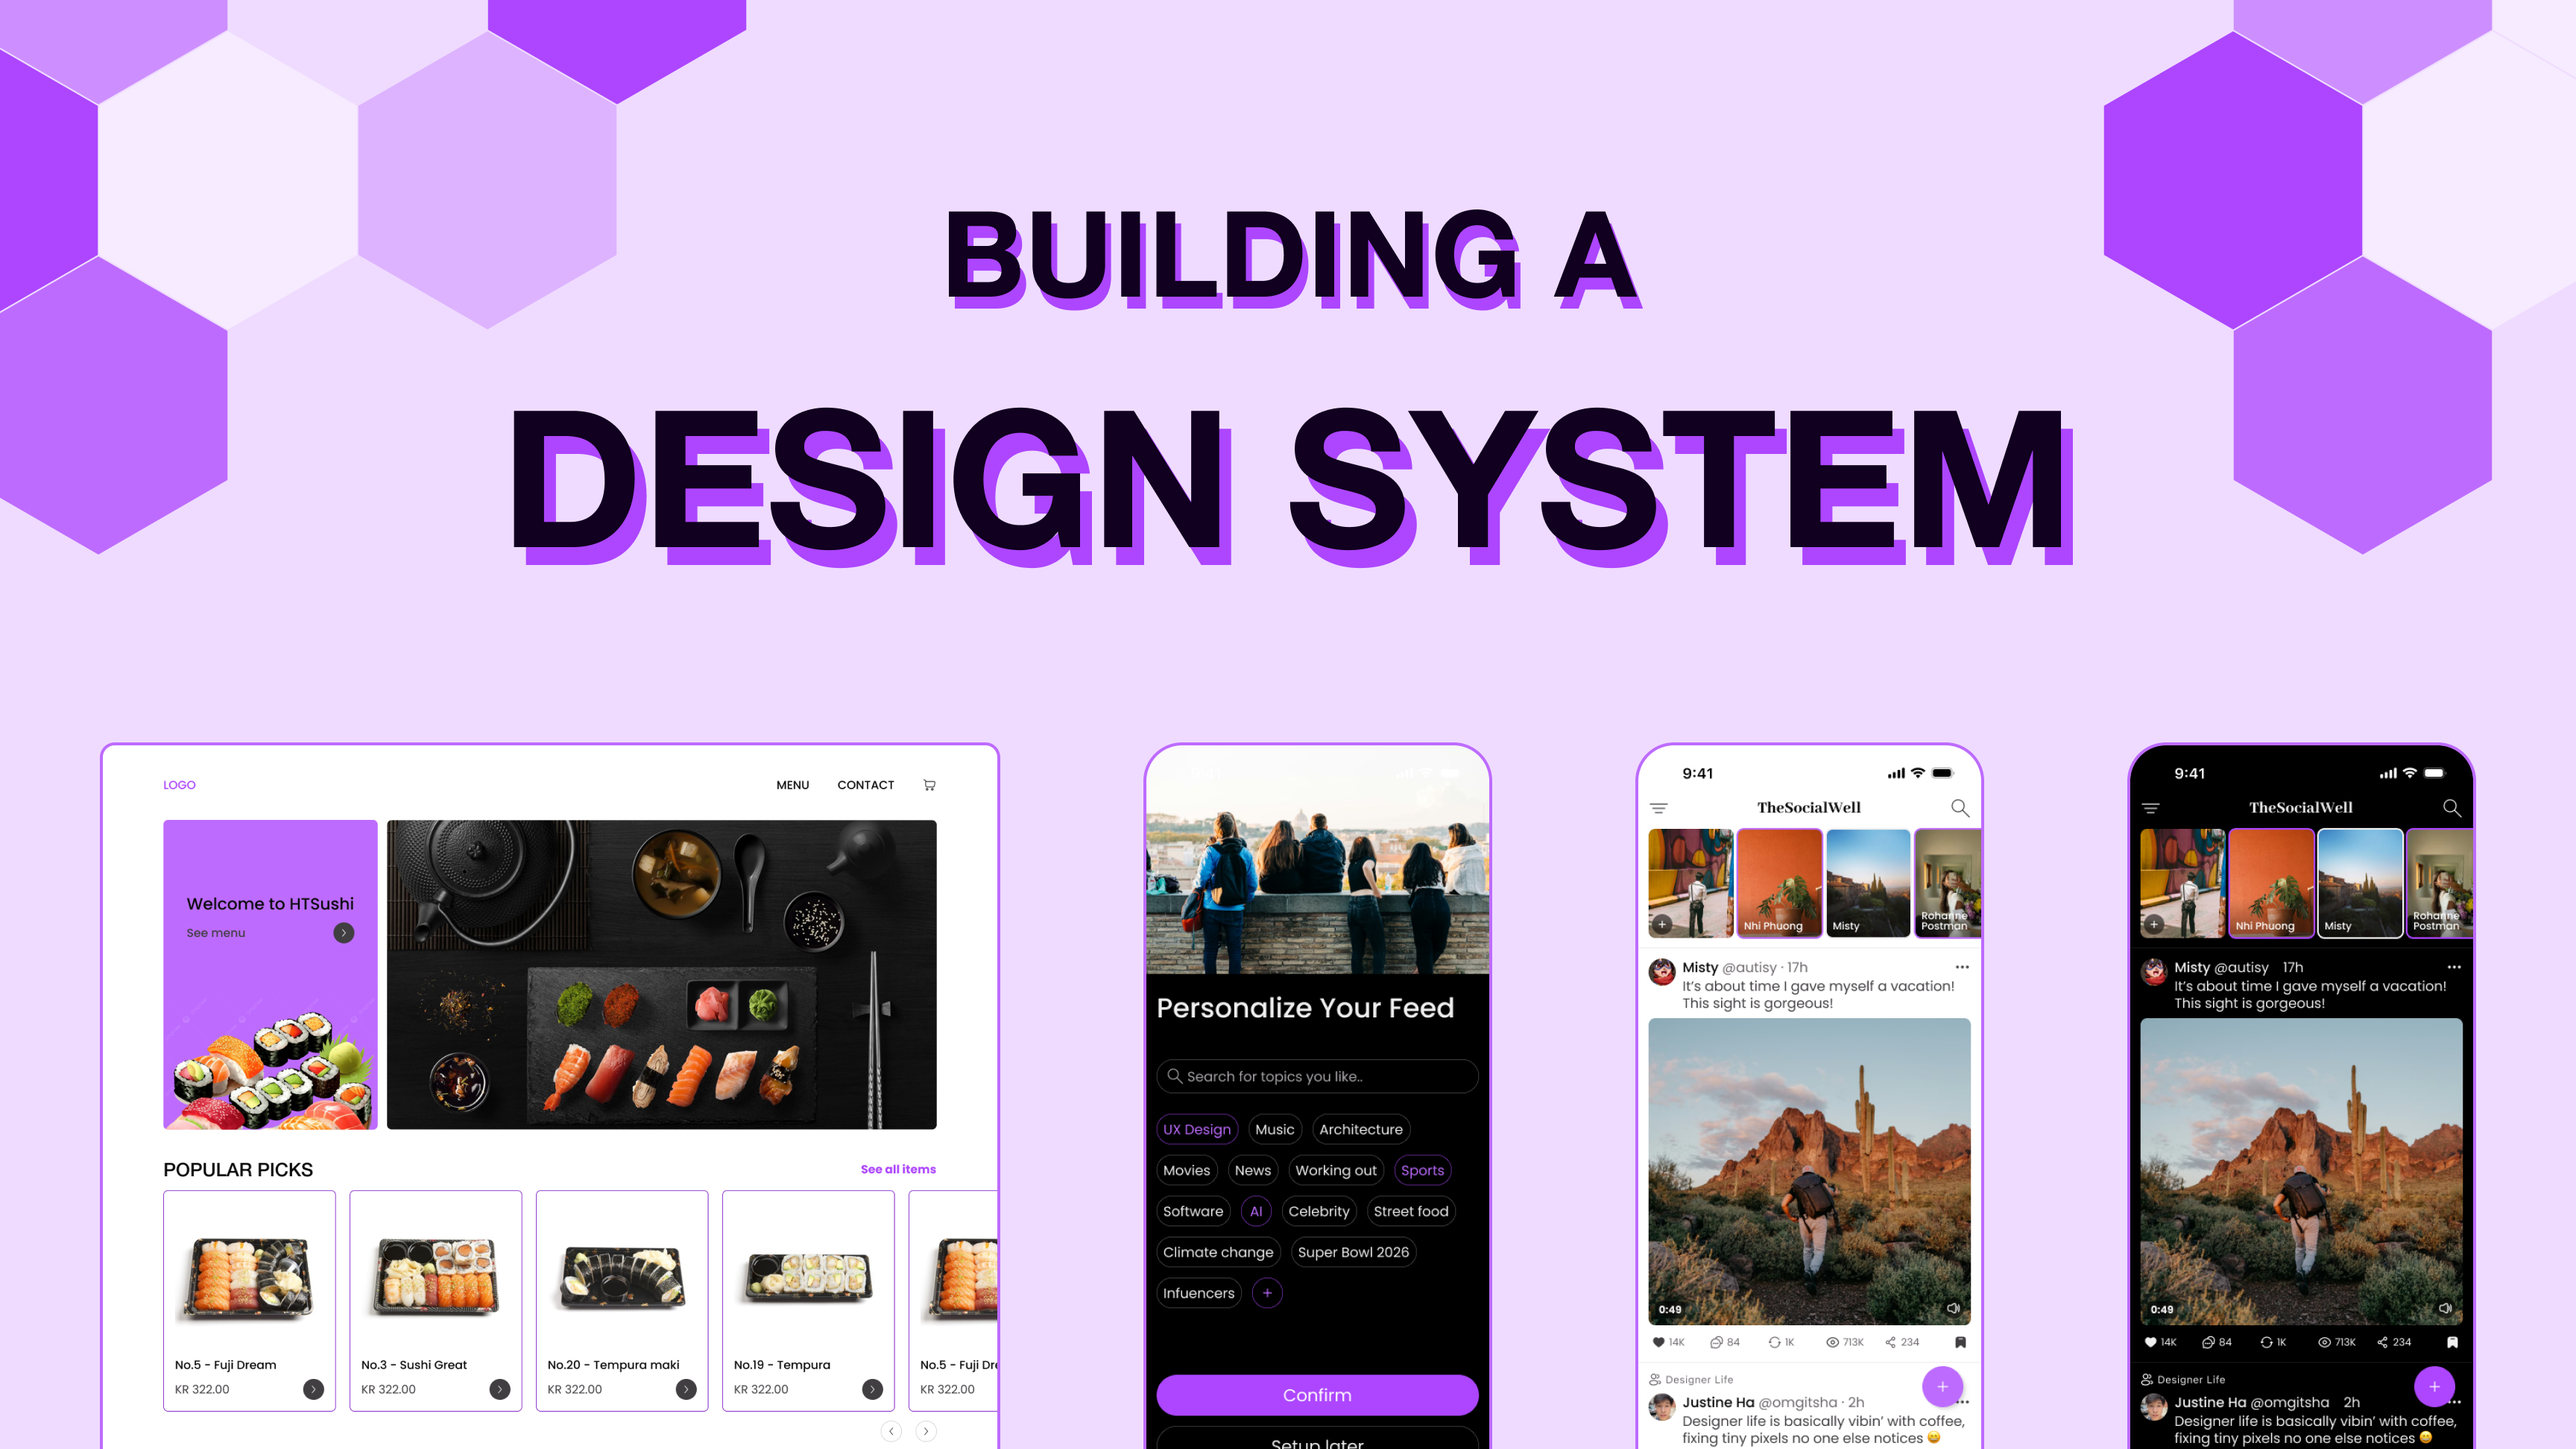
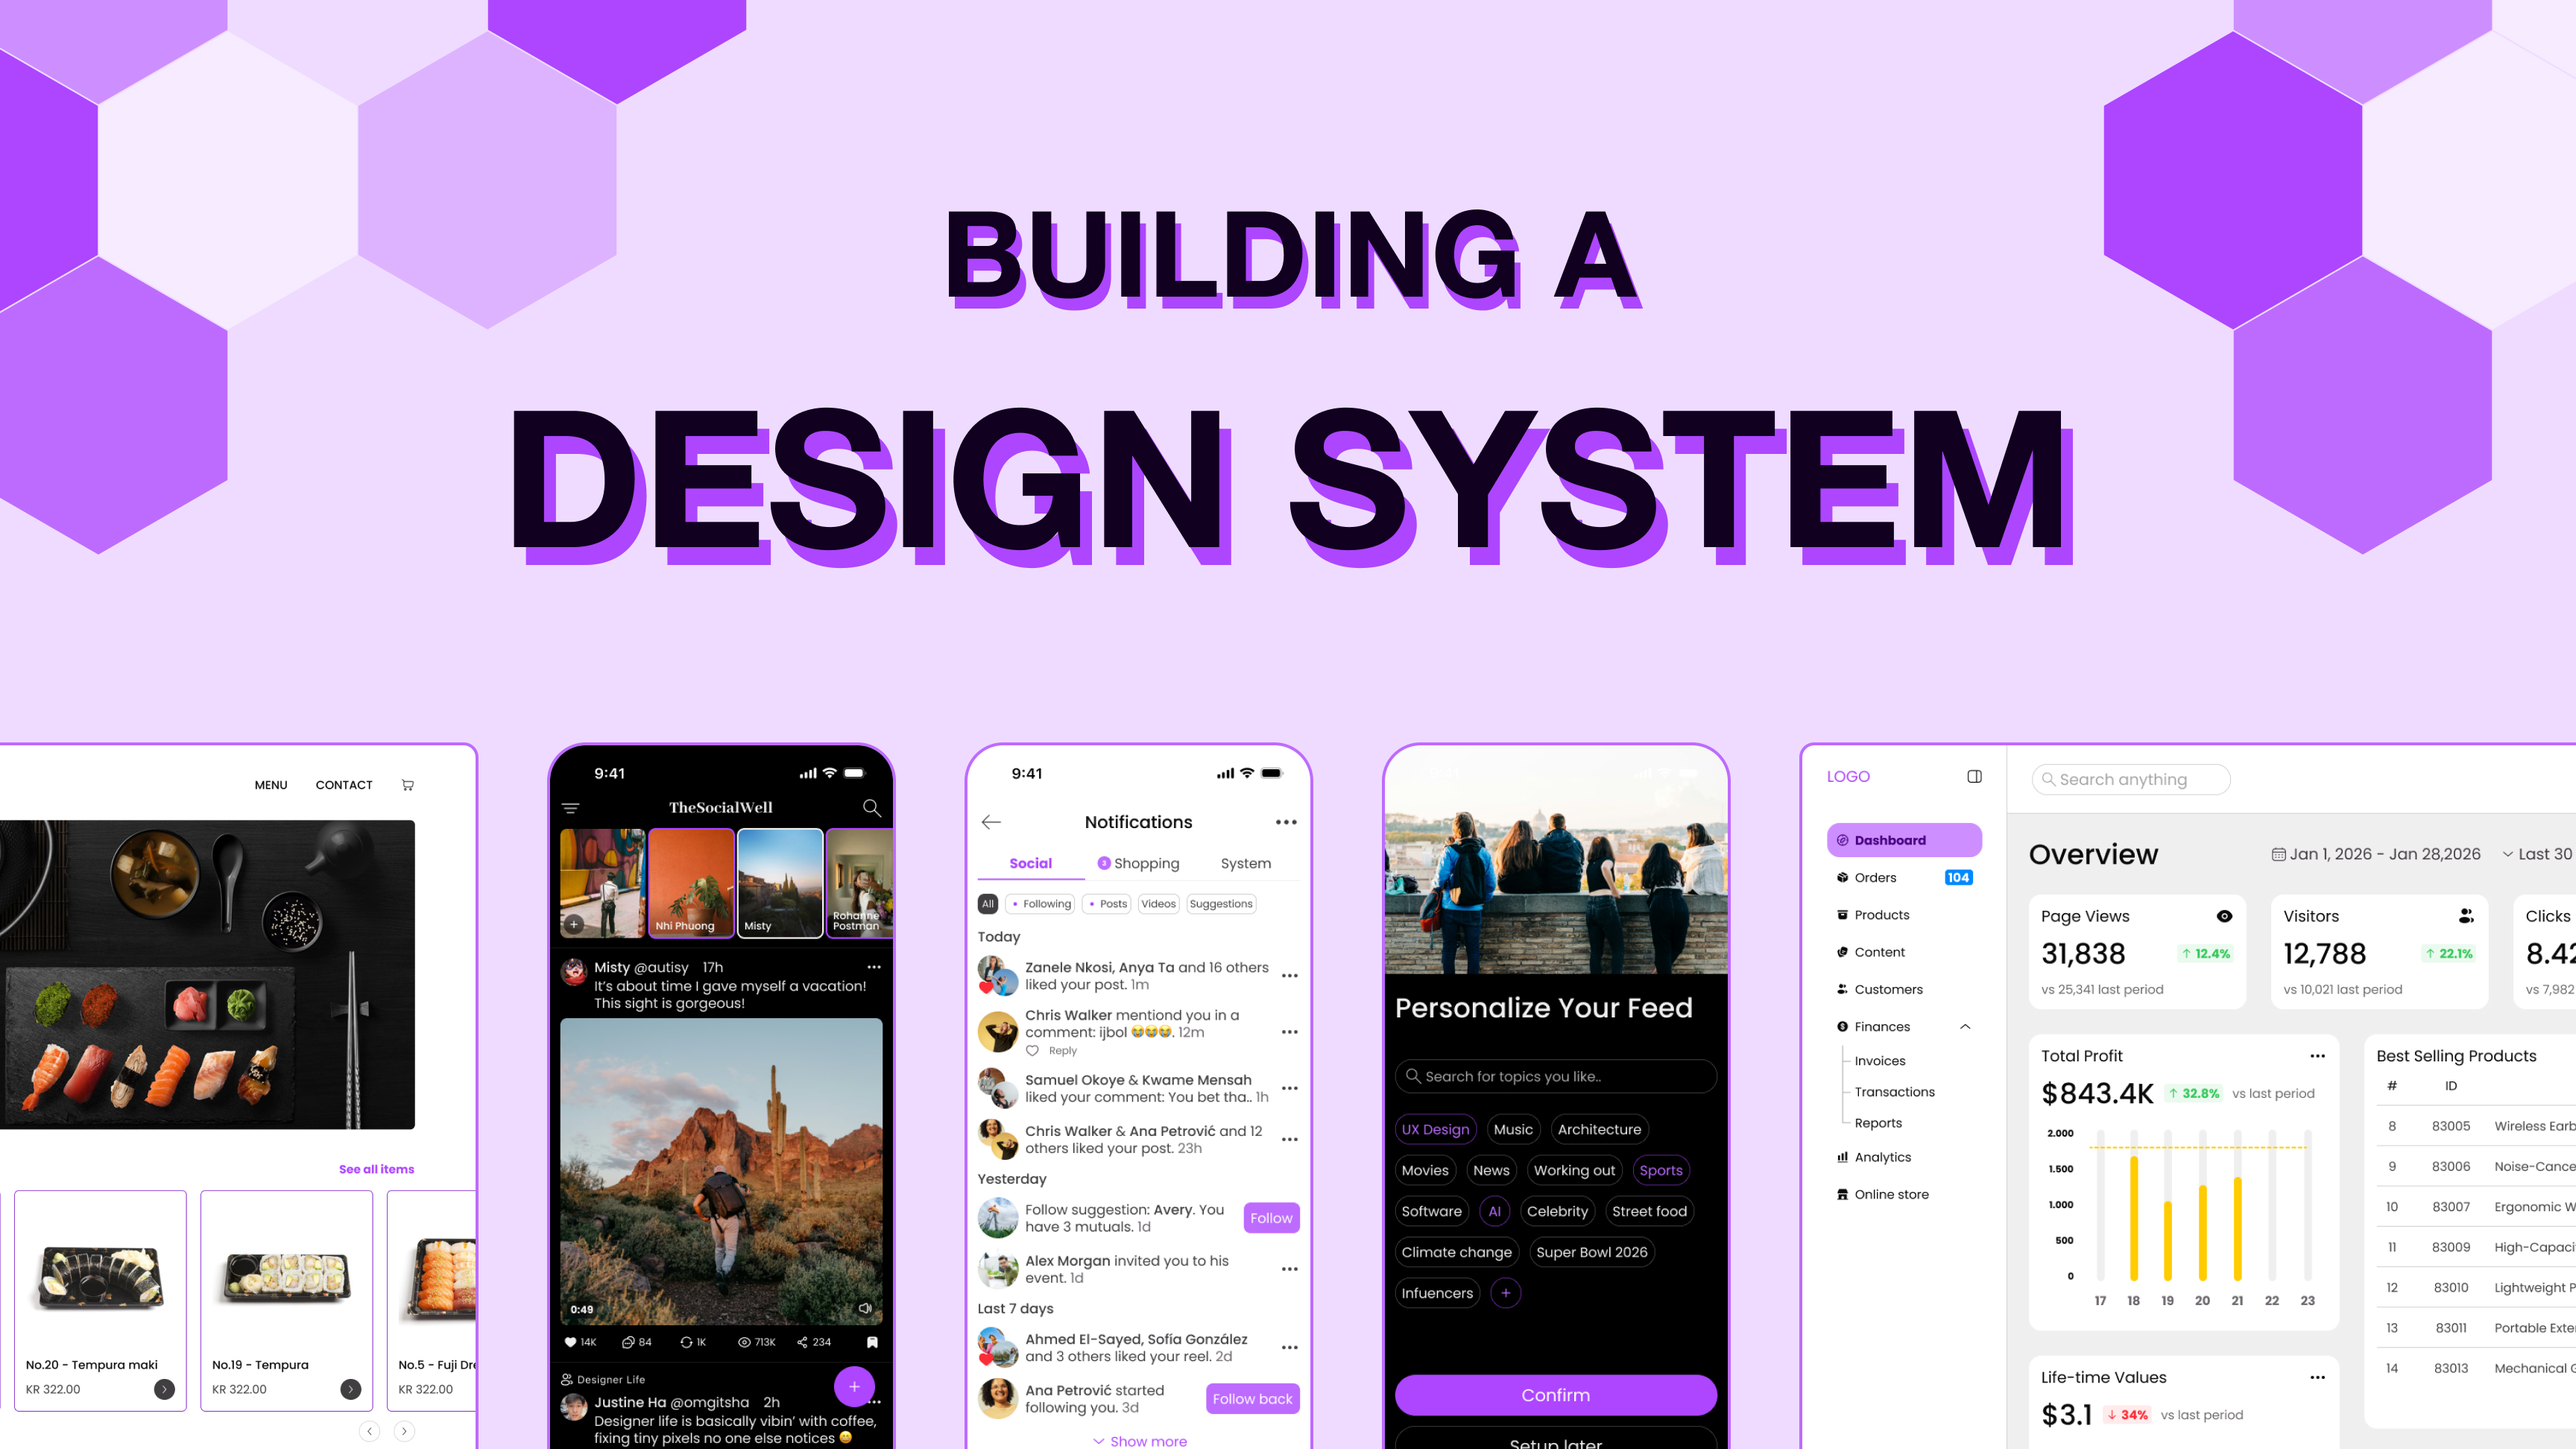
ok

diff --git a/app/work/design-system/page.tsx b/app/work/design-system/page.tsx
@@ -88,10 +88,18 @@ export default function Page() {
         </p>
         <Image
           className="mx-auto w-full"
-          src="/ds-Examples.jpg"
+          src="/ds-Examples1.jpg"
           width={900}
           height={50}
-          alt="Examples"
+          alt="Examples #1"
+          priority
+        />
+        <Image
+          className="mx-auto w-full"
+          src="/ds-Examples2.jpg"
+          width={900}
+          height={50}
+          alt="Examples #2"
           priority
         />
 
